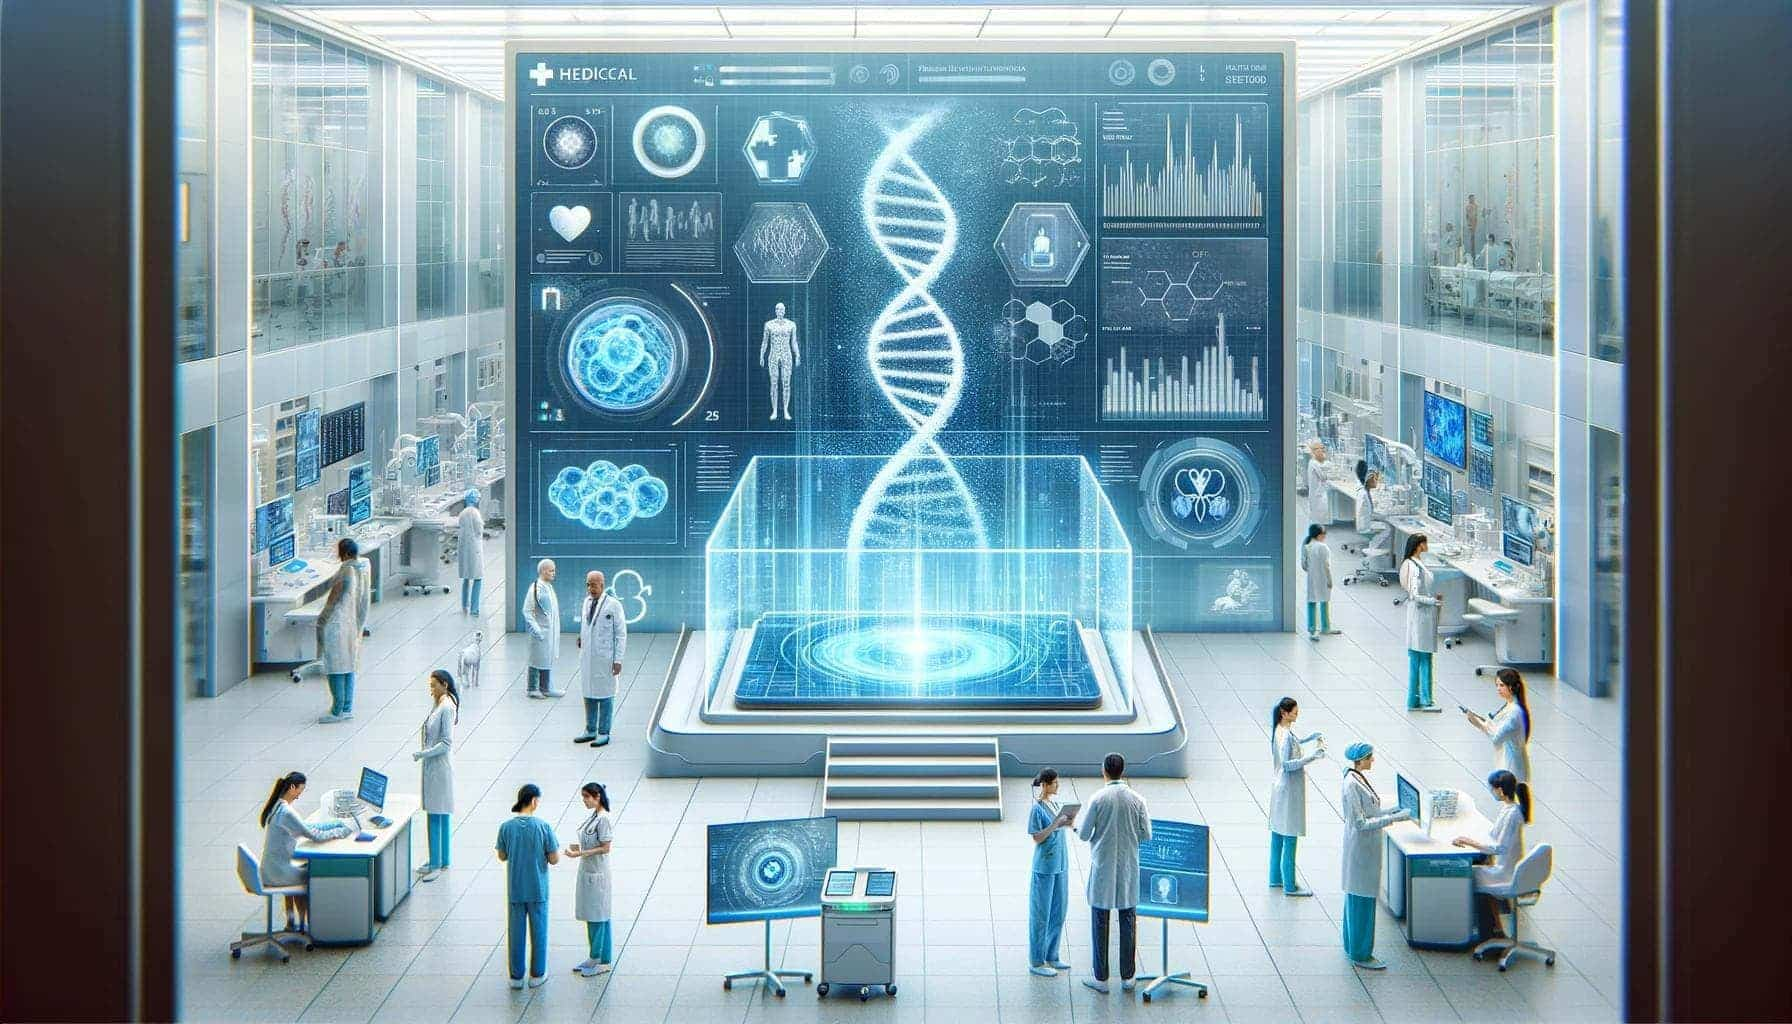
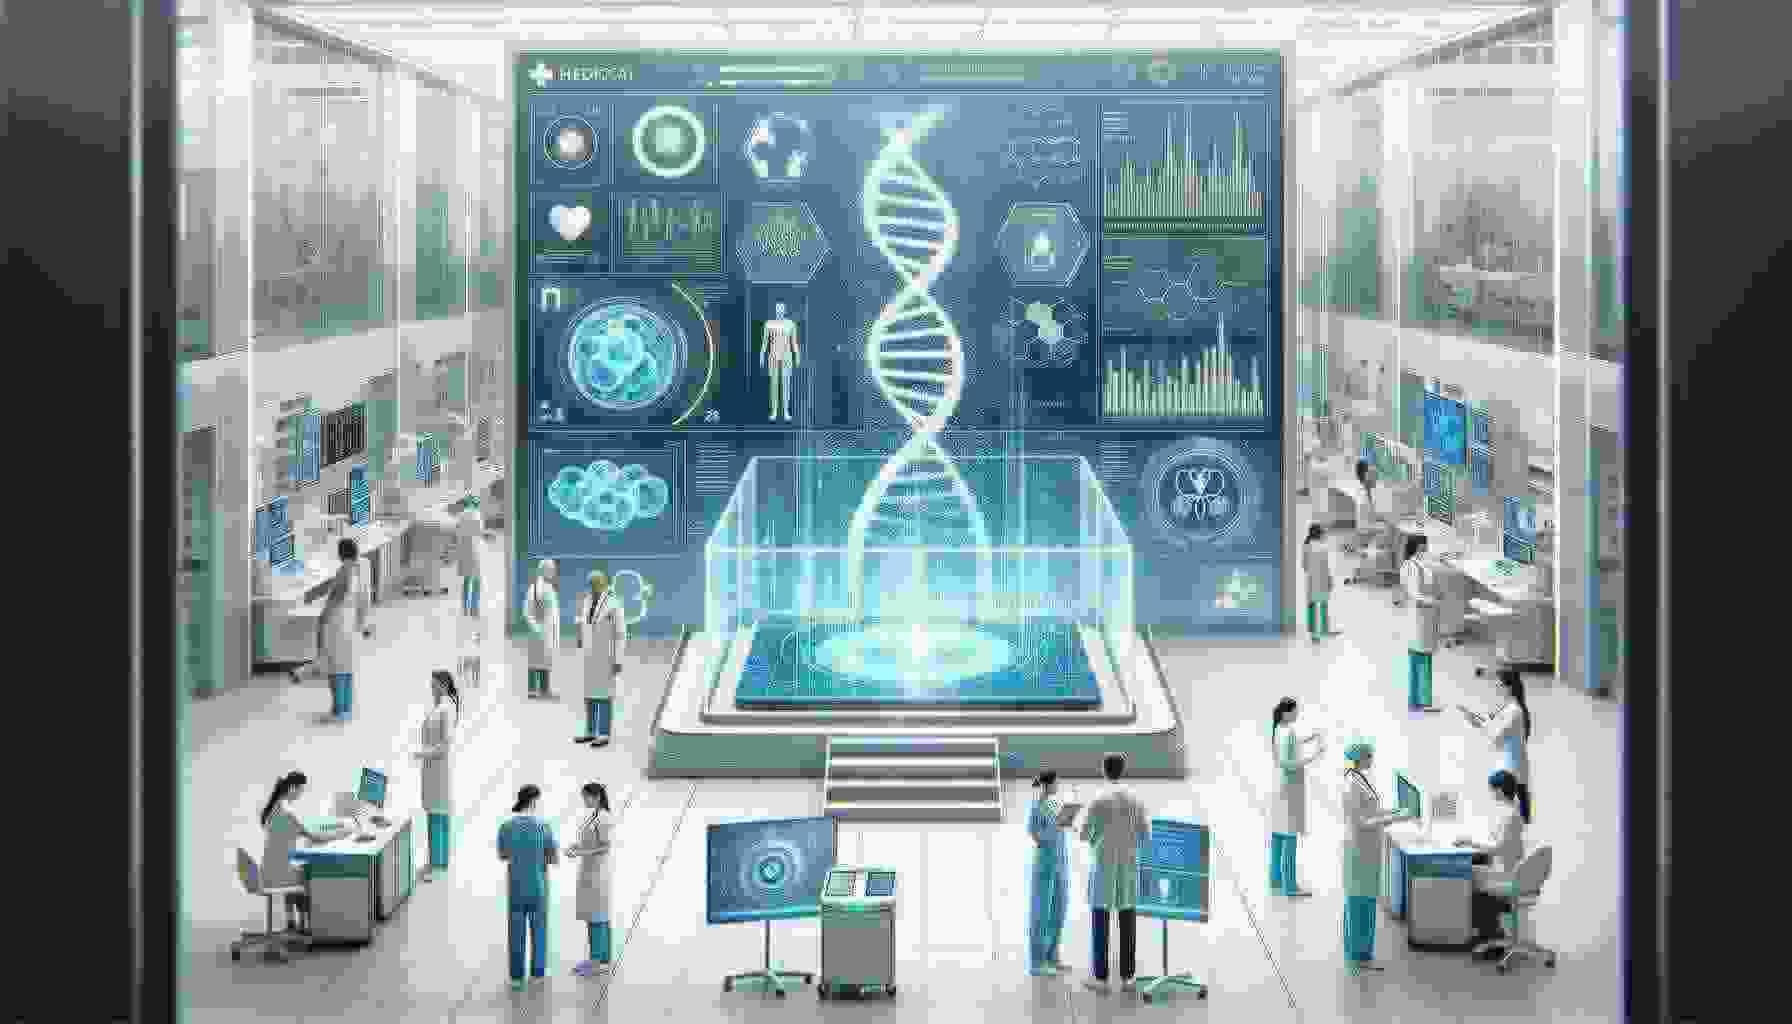
Optimized images

diff --git a/pages/404.html b/pages/404.html
@@ -11,7 +11,7 @@
 <body>
     <div class="d-flex justify-content-center align-items-center" style="height: 100vh;">
         <div class="text-center">
-            <img src="../img/ai-404.png" alt="404 Error" class="img-fluid" style="max-width: 400px;">
+            <img src="../img/ai-404.jpg" alt="404 Error" class="img-fluid" style="max-width: 400px;">
             <h1 style="color: #7F7FD5;">Oops! Page not found.</h1>
             <p class="lead" style="color: #5CACEE;">The page you are looking for might have been removed, had its name changed, or is temporarily unavailable.</p>
             <a href="../index.html" class="btn btn-primary" style="background-color: #357ABD; border: none;">Go to Homepage</a>
